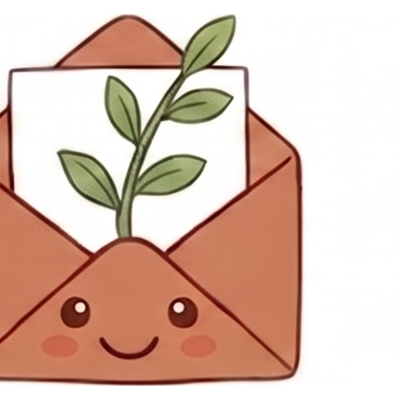
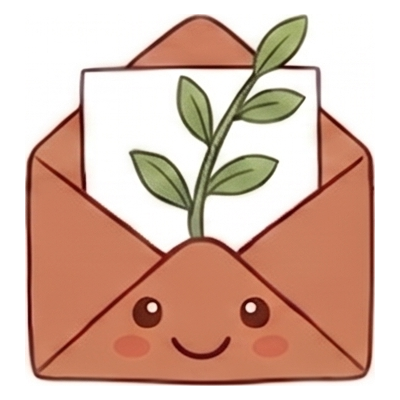
QA round 3: fix envelope/faq/phone crops, enlarge CTA circles
Envelope centered, FAQ question mark no longer cut, phone cleaner.
CTA circles: 80px -> 100px, icon 50px -> 64px, hover state scaled up.
Section page-header padding unified.

diff --git a/website/style.css b/website/style.css
@@ -499,8 +499,8 @@ img { max-width: 100%; height: auto; display: block; }
   align-items: center;
   justify-content: center;
   text-decoration: none;
-  width: 80px;
-  height: 80px;
+  width: 100px;
+  height: 100px;
   border-radius: 50%;
   background: #fff;
   box-shadow: 0 4px 16px rgba(122,59,208,0.18), 0 10px 32px rgba(224,96,152,0.13), 0 16px 48px rgba(74,196,160,0.08);
@@ -517,7 +517,7 @@ img { max-width: 100%; height: auto; display: block; }
   transform: translateY(-2px);
 }
 .cta-circle__icon {
-  width: 50px; height: 50px;
+  width: 64px; height: 64px;
   flex-shrink: 0;
   object-fit: contain;
   transition: width 0.3s ease, height 0.3s ease;
@@ -536,15 +536,15 @@ img { max-width: 100%; height: auto; display: block; }
 }
 .cta-circle.is-open,
 .cta-circle:hover {
-  width: 100px;
-  height: 88px;
-  border-radius: 20px;
+  width: 120px;
+  height: 100px;
+  border-radius: 22px;
   padding: 0.6rem;
   box-shadow: 0 4px 18px rgba(122,59,208,0.28), 0 12px 40px rgba(224,96,152,0.2), 0 20px 60px rgba(74,196,160,0.12);
 }
 .cta-circle.is-open .cta-circle__icon,
 .cta-circle:hover .cta-circle__icon {
-  width: 38px; height: 38px;
+  width: 48px; height: 48px;
 }
 .cta-circle.is-open .cta-circle__text,
 .cta-circle:hover .cta-circle__text {
@@ -603,7 +603,7 @@ img { max-width: 100%; height: auto; display: block; }
 
 /* Page header (for inner pages) — unified style */
 .page-header {
-  padding: var(--space-4) 0 var(--space-3);
+  padding: var(--space-5) 0 var(--space-3);
   text-align: center;
 }
 .page-header .section__title {